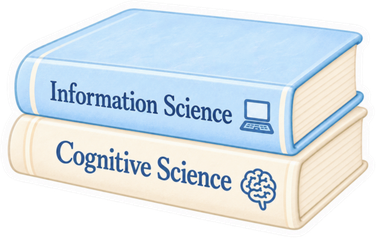
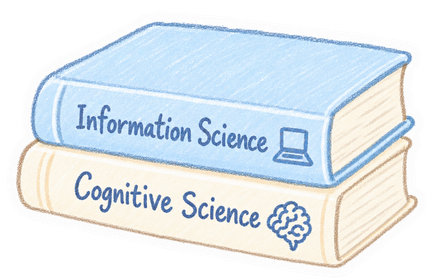
changed stickers

diff --git a/index.html b/index.html
@@ -73,20 +73,20 @@
             <img class="sticker" data-id="violin" src="assets/board/violin.png" alt="Blue violin" draggable="false" style="left:66.79%;top:56.64%;width:12.78%">
             <img class="sticker" data-id="music-note" src="assets/board/music-note.png" alt="Music note" draggable="false" style="left:73.42%;top:52.76%;width:3.13%">
             <img class="sticker" data-id="treble-clef" src="assets/board/treble-clef.png" alt="Treble clef" draggable="false" style="left:65.76%;top:78.23%;width:2.11%">
-            <img class="sticker" data-id="wildflowers" src="assets/board/wildflowers.png" alt="Wildflower sprig" draggable="false" style="left:27.51%;top:72.05%;width:4.88%">
-            <img class="sticker" data-id="books" src="assets/board/books.png" alt="Information Science and Cognitive Science books" draggable="false" style="left:5.55%;top:65.85%;width:22.66%">
-            <img class="sticker" data-id="book-flowers" src="assets/board/book-flowers.png" alt="Small blue flowers" draggable="false" style="left:14.04%;top:67.57%;width:3.98%">
-            <img class="sticker" data-id="tiny-flower-1" src="assets/board/tiny-flower-1.png" alt="Tiny flower" draggable="false" style="left:20.61%;top:69.47%;width:1.57%">
-            <img class="sticker" data-id="tiny-flower-2" src="assets/board/tiny-flower-2.png" alt="Tiny flower" draggable="false" style="left:22.42%;top:70.82%;width:0.90%">
+            <img class="sticker" data-id="wildflowers" src="assets/board/wildflowers.png" alt="Wildflower sprig" draggable="false" style="left:36.16%;top:71.00%;width:4.24%">
+            <img class="sticker" data-id="books" src="assets/board/books.png" alt="Information Science and Cognitive Science books" draggable="false" style="left:6.15%;top:63.14%;width:26.22%">
+            <img class="sticker" data-id="book-flowers" src="assets/board/book-flowers.png" alt="Small blue flowers" draggable="false" style="left:14.22%;top:66.21%;width:3.98%">
+            <img class="sticker" data-id="tiny-flower-1" src="assets/board/tiny-flower-1.png" alt="Tiny flower" draggable="false" style="left:20.79%;top:68.11%;width:1.57%">
+            <img class="sticker" data-id="tiny-flower-2" src="assets/board/tiny-flower-2.png" alt="Tiny flower" draggable="false" style="left:22.60%;top:69.46%;width:0.90%">
             <img class="sticker" data-id="tiny-flower-3" src="assets/board/tiny-flower-3.png" alt="Tiny flower" draggable="false" style="left:47.38%;top:84.45%;width:1.57%">
-            <img class="sticker" data-id="heart-blue" src="assets/board/heart-blue.png" alt="Blue heart" draggable="false" style="left:31.36%;top:65.57%;width:5.79%">
+            <img class="sticker" data-id="heart-blue" src="assets/board/heart-blue.png" alt="Blue heart" draggable="false" style="left:6.41%;top:56.08%;width:5.79%">
             <img class="sticker" data-id="polaroid-portrait" src="assets/board/polaroid-portrait.png" alt="Polaroid illustration of Xintong in a blue tee" draggable="false" style="left:12.60%;top:12.83%;width:27.91%">
             <img class="sticker" data-id="smiley" src="assets/board/smiley.png" alt="Smiley face sticker" draggable="false" style="left:36.44%;top:51.66%;width:6.39%">
             <img class="sticker" data-id="babys-breath-left" src="assets/board/babys-breath-left.png" alt="Baby's breath sprig" draggable="false" style="left:5.24%;top:22.85%;width:10.97%">
             <img class="sticker" data-id="tape-left" src="assets/board/tape-left.png" alt="Washi tape" draggable="false" style="left:5.14%;top:42.58%;width:6.39%">
             <img class="sticker" data-id="forget-me-not-2" src="assets/board/forget-me-not-2.png" alt="Blue flower" draggable="false" style="left:44.67%;top:83.38%;width:2.53%">
             <img class="sticker" data-id="heart-strawberry" src="assets/board/heart-strawberry.png" alt="Strawberry heart sticker" draggable="false" style="left:61.72%;top:14.18%;width:8.20%">
-            <img class="sticker" data-id="polaroid-bunny" src="assets/board/polaroid-bunny.png" alt="Polaroid of a bunny with a bow" draggable="false" style="left:44.36%;top:46.52%;width:21.22%">
+            <img class="sticker" data-id="polaroid-bunny" src="assets/board/polaroid-bunny.png" alt="Polaroid of a bunny with a bow" draggable="false" style="left:43.46%;top:46.25%;width:21.22%">
             <img class="sticker" data-id="bluebells" src="assets/board/bluebells.png" alt="Blue flower sprig" draggable="false" style="left:39.53%;top:70.67%;width:6.87%">
           </div>
           <div class="sticker-board__footer">

diff --git a/script.js b/script.js
@@ -1,7 +1,7 @@
 const stickerBoard = document.querySelector('.sticker-board');
 
 if (stickerBoard) {
-  const STORAGE_KEY = 'sticker-board-layout-v1';
+  const STORAGE_KEY = 'sticker-board-layout-v2';
   const stickers = Array.from(stickerBoard.querySelectorAll('.sticker'));
   const resetBtn = document.querySelector('.sticker-board__reset');
   let topZ = stickers.length + 1;
